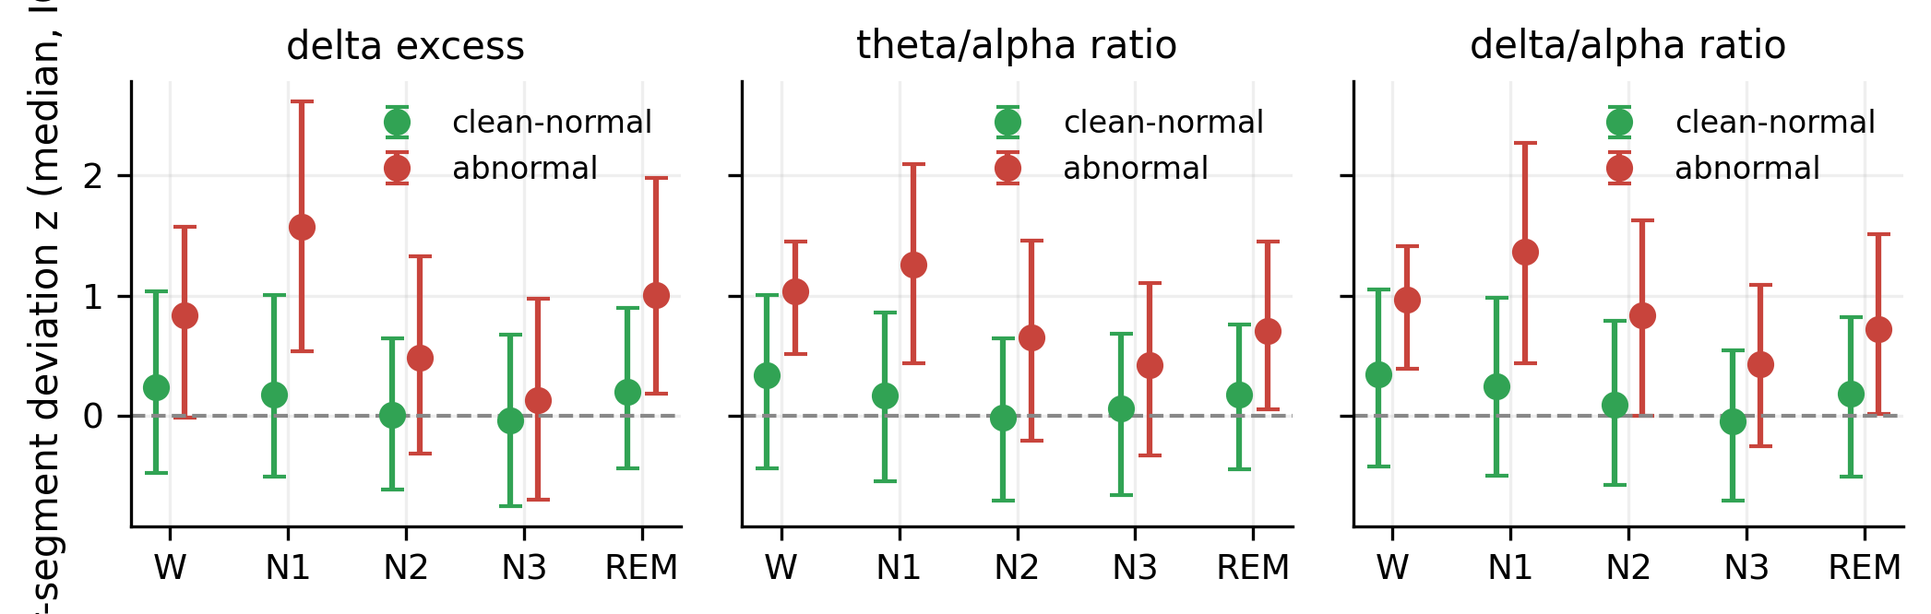
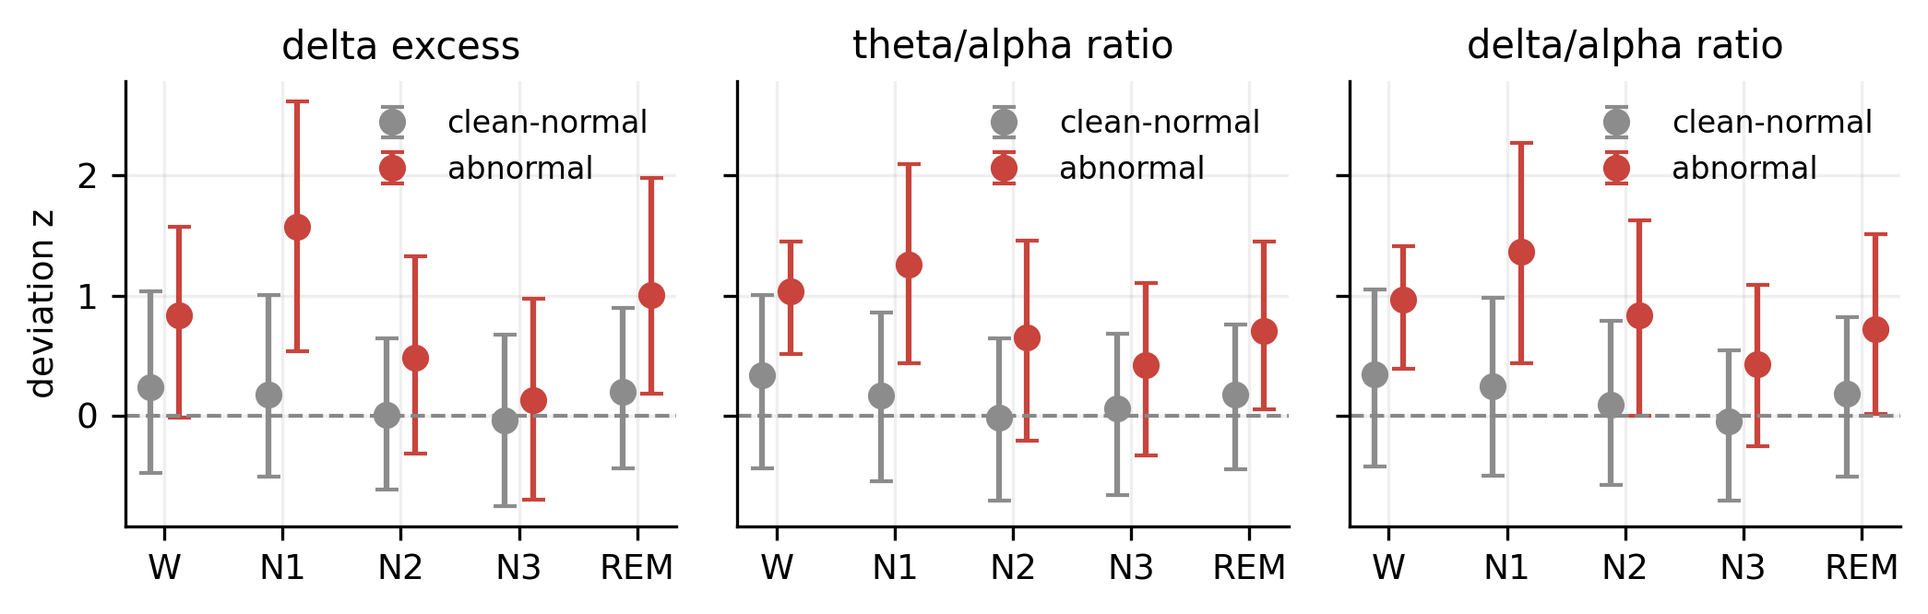
Third figure pass: rebuild the architecture schematic, define every statistic
Round 3 of the figure checker confirmed the nine round-2 blockers closed and found a
finer layer. Fixed the ones that affect whether a reader can read the figure:

* **Figure S1 was unusable.** Every box's label overflowed and overprinted its
  neighbours; five strings were illegible. Cause: the producer centred each label at its
  box midpoint and asked matplotlib to `wrap`, but matplotlib wraps to the FIGURE width,
  not the artist's. Rewritten so text is wrapped to the box width here and each box grows
  to fit its own wrapped text -- a label can no longer overflow however it is edited.
  This is the one figure that carries the paper's thesis, and it was the worst in the set.
* **Figure S6's y-axis label was clipped by the canvas**, taking the error-bar definition
  with it. Shortened, and the definition moved into the caption.
* **Figure S6 coloured clean-normal green against a red abnormal** -- the one pair that
  disappears under deuteranopia and in greyscale, and it contradicted the grey used for
  the same group in Figures 6 and S8. Now grey vs the paper's orange accent.
* **Figure 6's "***" markers and error bars had no key anywhere.** One key line now runs
  under the panel, worded identically in the caption.
* **Figure 7 was set 1.5-2x larger than the rest of the set** (11 pt ticks against ~7 pt
  elsewhere) because it was authored at 6.4 in and scaled up. Page-width now, so a
[…]

diff --git a/scripts/architecture_diagram.py b/scripts/architecture_diagram.py
@@ -1,11 +1,18 @@
-"""Supplementary Figure — model / pipeline architecture schematic.
+"""Figure S1 — the pipeline architecture schematic.
 
 One deviation-from-normal field is the shared substrate for BOTH detection (two report-trained heads) and
-description (claims-table-governed read-out). Rendered as a block diagram; self-contained (no data reads).
+description (a claims-table-governed read-off). Self-contained: reads no data.
+
+Layout note. The previous version centred each label at its box's midpoint and asked matplotlib to `wrap`.
+matplotlib wraps to the FIGURE width, not to the artist's width, so every long label ran straight through
+its own box and overprinted its neighbours -- the figure was unreadable in five places. Text is now wrapped
+to the box width here, in this file, and each box GROWS to fit its wrapped text, so a label can never
+overflow again no matter how it is edited.
 
 Run: MPLBACKEND=Agg python3 scripts/architecture_diagram.py  ->  figures/story/architecture.png
 """
 from __future__ import annotations
+import textwrap
 from pathlib import Path
 import matplotlib; matplotlib.use("Agg")
 import matplotlib.pyplot as plt
@@ -13,75 +20,113 @@ from morgoth_slowing.viz import palette  # noqa: F401  (applies shared Tufte pub
 from matplotlib.patches import FancyBboxPatch, FancyArrowPatch
 
 FIG = Path("figures/story")
-C_IN, C_HUB, C_DET, C_DESC, C_VAL = "#dfe7ef", "#f6d9b8", "#d8e8d5", "#e2dcec", "#eeeeee"
-EDGE = "#5a6b7a"
+
+# Fills are pale and carry NO information -- they group rows for the eye only, and every box is also named.
+# That keeps the figure readable in greyscale and under any colour-vision deficiency.
+C_IN, C_HUB, C_DET, C_DESC, C_VAL = "#e8eef4", "#fbe6cd", "#e3efe0", "#e9e4f2", "#f0f0f0"
+EDGE, HUB_EDGE = "#5a6b7a", "#b06a1a"
+
+W_IN, H_IN = 7.1, 6.4                      # canvas inches
+XMAX, YMAX = 12.0, 12.0                    # data units
+X_PER_IN, Y_PER_IN = XMAX / W_IN, YMAX / H_IN
 
 
-def box(ax, x, y, w, h, text, fc, fs=8.5, bold=False, ec=EDGE):
-    ax.add_patch(FancyBboxPatch((x, y), w, h, boxstyle="round,pad=0.010,rounding_size=0.014",
-                                linewidth=1.1, edgecolor=ec, facecolor=fc))
-    ax.text(x + w / 2, y + h / 2, text, ha="center", va="center", fontsize=fs,
-            fontweight="bold" if bold else "normal", wrap=True)
+def _wrap(text, w_units, fs):
+    """Wrap to the box width. Chars-per-unit from the actual canvas scale, not guessed."""
+    chars = max(8, int(w_units / X_PER_IN * 72.0 / (0.55 * fs) * 0.94))
+    out = []
+    for para in text.split("\n"):
+        out += textwrap.wrap(para, chars) or [""]
+    return out
 
 
-def arrow(ax, x0, y0, x1, y1, style="-|>", lw=1.4, color="#333", ls="-"):
-    ax.add_patch(FancyArrowPatch((x0, y0), (x1, y1), arrowstyle=style, mutation_scale=13,
-                                 lw=lw, color=color, linestyle=ls, shrinkA=1, shrinkB=1))
+def box(ax, x, y_top, w, text, fc, fs=8.0, bold=False, ec=EDGE, pad=0.30):
+    """Draw a box whose HEIGHT is derived from the wrapped text. Returns (y_bottom, y_centre)."""
+    lines = _wrap(text, w, fs)
+    lh = fs * 1.32 / 72.0 * Y_PER_IN                       # one line, in data units
+    h = len(lines) * lh + 2 * pad
+    y = y_top - h
+    ax.add_patch(FancyBboxPatch((x, y), w, h, boxstyle="round,pad=0.010,rounding_size=0.012",
+                                linewidth=1.0, edgecolor=ec, facecolor=fc, zorder=2))
+    ax.text(x + w / 2, y + h / 2, "\n".join(lines), ha="center", va="center", fontsize=fs,
+            fontweight="bold" if bold else "normal", linespacing=1.32, zorder=3)
+    return y, y + h / 2
+
+
+def arrow(ax, x0, y0, x1, y1, lw=1.2, color="#444"):
+    ax.add_patch(FancyArrowPatch((x0, y0), (x1, y1), arrowstyle="-|>", mutation_scale=11,
+                                 lw=lw, color=color, shrinkA=2, shrinkB=2, zorder=1))
 
 
 def main():
     FIG.mkdir(parents=True, exist_ok=True)
-    fig, ax = plt.subplots(figsize=(7.1, 5.68)); ax.set_xlim(0, 12); ax.set_ylim(0, 12); ax.axis("off")
+    fig, ax = plt.subplots(figsize=(W_IN, H_IN))
+    ax.set_xlim(0, XMAX); ax.set_ylim(0, YMAX); ax.axis("off")
 
-    # ---- ingest (top) ----
-    box(ax, 0.5, 11.0, 3.3, 0.8, "Clinical EEG (EDF)\n25,536 recordings · 21,757 patients", C_IN, 8)
-    box(ax, 4.3, 11.0, 3.5, 0.8, "Morgoth sleep staging (ss_hm_1)\nW / N1 / N2 / N3 / REM per 15-s segment", C_IN, 8)
-    box(ax, 8.3, 11.0, 3.2, 0.8, "Segment features\nper region × band (δ/θ/α power, DAR, TAR, rel-power)", C_IN, 7.6)
-    arrow(ax, 3.8, 11.4, 4.3, 11.4); arrow(ax, 7.8, 11.4, 8.3, 11.4)
+    # ---- ingest ---------------------------------------------------------------------------------
+    top = 11.30
+    b1, _ = box(ax, 0.20, top, 3.55, "Clinical EEG\n25,536 recordings · 21,757 patients", C_IN, 7.6)
+    b2, _ = box(ax, 4.15, top, 3.70, "Sleep staging (Morgoth)\nW / N1 / N2 / N3 / REM per 15-s segment", C_IN, 7.6)
+    b3, _ = box(ax, 8.25, top, 3.55, "Segment features\nband powers and ratios per region", C_IN, 7.6)
+    ymid = (top + min(b1, b2, b3)) / 2
+    arrow(ax, 3.75, ymid, 4.15, ymid); arrow(ax, 7.85, ymid, 8.25, ymid)
 
-    # ---- normative curves + deviation field (hub) ----
-    box(ax, 1.2, 9.3, 4.6, 1.0, "Lifespan × sleep-stage normative growth curves (GAMLSS)\nμ, σ per (age × stage × region × feature)", C_HUB, 8.5, bold=True)
-    box(ax, 6.4, 9.3, 4.4, 1.0, "DEVIATION-FROM-NORMAL FIELD\nz per 15-s segment × region × feature\n(the shared substrate)", C_HUB, 8.5, bold=True, ec="#b06a1a")
-    arrow(ax, 9.9, 11.0, 8.6, 10.3)                      # features -> curves/field
-    arrow(ax, 5.8, 9.8, 6.4, 9.8)                        # curves -> field
-    ax.text(6.1, 9.95, "score", fontsize=7, color="#666", ha="center")
+    # ---- the hub --------------------------------------------------------------------------------
+    top2 = min(b1, b2, b3) - 0.75
+    c_b, c_c = box(ax, 0.20, top2, 5.30,
+                   "Lifespan × sleep-stage normative curves (GAMLSS)\nmedian and spread per age × stage × region × feature",
+                   C_HUB, 7.8, bold=True)
+    f_b, f_c = box(ax, 6.20, top2, 5.60,
+                   "DEVIATION-FROM-NORMAL FIELD\nz per 15-s segment × region × feature — the shared substrate",
+                   C_HUB, 7.8, bold=True, ec=HUB_EDGE)
+    arrow(ax, 10.0, min(b1, b2, b3), 10.0, top2)
+    arrow(ax, 5.50, c_c, 6.20, f_c)
+    ax.text(5.85, c_c + 0.26, "score", fontsize=6.8, color="#666", ha="center")
 
-    # ---- two branches ----
-    box(ax, 0.5, 7.4, 5.2, 0.55, "DETECTION  —  two heads, trained ONLY on report labels", C_DET, 9, bold=True)
-    box(ax, 6.6, 7.4, 5.0, 0.55, "DESCRIPTION  —  read-off, governed by the claims table", C_DESC, 9, bold=True)
-    arrow(ax, 7.6, 9.3, 3.1, 8.0)                        # field -> detection
-    arrow(ax, 9.4, 9.3, 9.1, 8.0)                        # field -> description
+    # ---- two consumers --------------------------------------------------------------------------
+    top3 = min(c_b, f_b) - 0.75
+    d_b, _ = box(ax, 0.20, top3, 5.30, "DETECTION — two heads, trained only on report labels", C_DET, 8.0, bold=True)
+    s_b, _ = box(ax, 6.20, top3, 5.60, "DESCRIPTION — read off the field, governed by the claims table",
+                 C_DESC, 8.0, bold=True)
+    arrow(ax, 7.20, f_b, 2.85, top3)
+    arrow(ax, 9.00, f_b, 9.00, top3)
 
-    # detection heads
-    box(ax, 0.5, 6.1, 2.5, 1.1, "Generalized head\ntop-5 pooled whole-head\namount z (diffuse)", C_DET, 7.8)
-    box(ax, 3.2, 6.1, 2.5, 1.1, "Focal head\nrecording-level: peak-region z,\nfocality, L–R asymmetry,\nspatial stability · de-confounded", C_DET, 7.0)
-    arrow(ax, 1.7, 7.4, 1.7, 7.2); arrow(ax, 4.4, 7.4, 4.4, 7.2)
-    box(ax, 1.0, 5.0, 4.2, 0.7, "Recording focal + generalized slowing scores", C_DET, 8.2, bold=True)
-    arrow(ax, 1.7, 6.1, 2.6, 5.7); arrow(ax, 4.4, 6.1, 3.6, 5.7)
+    top4 = min(d_b, s_b) - 0.42
+    g_b, _ = box(ax, 0.20, top4, 2.55, "Generalized head\ntop-k pooled whole-head amount z", C_DET, 7.2)
+    fo_b, _ = box(ax, 2.95, top4, 2.55, "Focal head\npeak-region z, focality, L–R asymmetry, spatial stability",
+                  C_DET, 7.2)
+    de_b, _ = box(ax, 6.20, top4, 5.60,
+                  "Structured descriptors: amount (SD / centile) · side · lobe · electrode · band "
+                  "(low-confidence) · prevalence · persistence · sleep stage, with abstain rules enforced",
+                  C_DESC, 7.2)
+    arrow(ax, 1.47, top4 + 0.42, 1.47, top4); arrow(ax, 4.22, top4 + 0.42, 4.22, top4)
+    arrow(ax, 9.00, top4 + 0.42, 9.00, top4)
 
-    # description read-out
-    box(ax, 6.6, 5.7, 5.0, 1.5,
-        "Structured descriptors →\n• amount (SD / centile)   • side · lobe\n• electrode (L–R asymmetry)   • band (calibrated z_θ−z_δ)\n"
-        "• prevalence · persistence   • sleep stage\n(low-confidence / abstain rules enforced)", C_DESC, 7.4)
-    arrow(ax, 9.1, 7.4, 9.1, 7.2)
-    box(ax, 7.0, 5.0, 4.2, 0.6, "Generated finding line + report paragraph", C_DESC, 8.2, bold=True)
-    arrow(ax, 9.1, 5.7, 9.1, 5.6)
+    top5 = min(g_b, fo_b, de_b) - 0.42
+    r_b, _ = box(ax, 0.20, top5, 5.30, "Recording focal + generalized slowing scores", C_DET, 7.8, bold=True)
+    p_b, _ = box(ax, 6.20, top5, 5.60, "Generated finding line + report paragraph", C_DESC, 7.8, bold=True)
+    arrow(ax, 1.47, top5 + 0.42, 2.30, top5); arrow(ax, 4.22, top5 + 0.42, 3.40, top5)
+    arrow(ax, 9.00, top5 + 0.42, 9.00, top5)
 
-    # ---- validation (bottom) ----
-    box(ax, 0.6, 3.0, 5.1, 1.4,
-        "VALIDATION (held out)\n• 18-expert ON-100 panel — % experts under ROC\n• Morgoth foundation-model gate\n"
-        "• previously published qEEG slowing indices\n• external SAI-100 (second site, SCORE-AI)", C_VAL, 7.6, bold=False)
-    box(ax, 6.6, 3.0, 5.0, 1.4,
-        "VALIDATION (vs clinical reports)\n• dose-response contrasts (D1–D5)\n• component concordance (side, region, band)\n"
-        "• band at expert-vs-expert floor (κ≈0.09)\n• sleep-slowing under-reporting (spindle-verified)", C_VAL, 7.6)
-    arrow(ax, 3.1, 5.0, 3.1, 4.4); arrow(ax, 9.1, 5.0, 9.1, 4.4)
+    # ---- validation -----------------------------------------------------------------------------
+    top6 = min(r_b, p_b) - 0.75
+    v1_b, _ = box(ax, 0.20, top6,
+                  5.30, "VALIDATION, held out\n• ON-100: 18 experts\n• the foundation-model gate\n"
+                        "• the published qEEG indices\n• SAI-100: second site, SCORE-AI", C_VAL, 7.2)
+    v2_b, _ = box(ax, 6.20, top6,
+                  5.60, "VALIDATION, against clinical reports\n• dose-response contrasts\n"
+                        "• component concordance (side, region, band)\n• sleep under-reporting, spindle-verified",
+                  C_VAL, 7.2)
+    arrow(ax, 2.85, top6 + 0.75, 2.85, top6); arrow(ax, 9.00, top6 + 0.75, 9.00, top6)
 
-    ax.text(6, 1.9, "One interpretable normative field → detection (report-trained, expert-validated) + "
-                    "structured, claims-governed description.", ha="center", fontsize=8.5, style="italic", color="#333")
-    ax.text(6, 11.9, "Pipeline architecture — lifespan/sleep-stage deviation-from-normal EEG slowing",
-            ha="center", fontsize=11.5, fontweight="bold")
+    ax.text(6, min(v1_b, v2_b) - 0.55,
+            "One interpretable normative field → detection (report-trained, expert-validated)\n"
+            "+ structured, claims-governed description.",
+            ha="center", va="top", fontsize=8.0, style="italic", color="#333")
 
-    fig.tight_layout(); fig.savefig(FIG / "architecture.png", dpi=300, bbox_inches="tight"); plt.close(fig)
+    fig.subplots_adjust(left=0.005, right=0.995, top=0.995, bottom=0.005)
+    fig.savefig(FIG / "architecture.png", dpi=300, bbox_inches="tight", facecolor="white")
+    plt.close(fig)
     print("wrote figures/story/architecture.png")
 
 

diff --git a/scripts/fig6_sleep_naming.py b/scripts/fig6_sleep_naming.py
@@ -40,20 +40,36 @@ def main():
         + f"| **classified total** | **{sum(ns):,}** | |\n")
     colors = ["#2c7fb8", ABNORMAL, EXPERTS]                    # wake (blue) / sleep-only (red) / base (grey)
 
-    fig, ax = plt.subplots(figsize=(6.4, 4.6))
-    bars = ax.bar(labels, rates, color=colors, width=0.62)
-    for b, r, n in zip(bars, rates, ns):
-        ax.text(b.get_x() + b.get_width() / 2, r + 1.2, f"{r:.0f}%\n(n={n:,})",
-                ha="center", va="bottom", fontsize=9.5, fontweight="bold")
+    # 6.4 in wide made this the largest type in the set (ticks ~11 pt against ~7 pt elsewhere) once the
+    # journal scaled it to column width. Page-width canvas, so a specified point size IS the printed size.
+    fig, ax = plt.subplots(figsize=(7.1, 3.6))
+    # Three proportions with n in the thousands and no uncertainty shown at all was the one place in the
+    # figure set where a point estimate carried no interval. Wilson score 95% CI -- exact for a proportion,
+    # and it does not run off the axis near 0 or 100% the way a normal-approximation interval does.
+    def wilson(k, n, z=1.959963985):
+        ph = k / n; d = 1 + z * z / n
+        c = (ph + z * z / (2 * n)) / d
+        h = z * ((ph * (1 - ph) / n + z * z / (4 * n * n)) ** 0.5) / d
+        return 100 * (c - h), 100 * (c + h)
+
+    cis = [wilson(round(r / 100 * n), n) for r, n in zip(rates, ns)]
+    bars = ax.bar(labels, rates, color=colors, width=0.62, zorder=2)
+    ax.errorbar(range(len(rates)), rates,
+                yerr=[[r - lo for r, (lo, _) in zip(rates, cis)],
+                      [hi - r for r, (_, hi) in zip(rates, cis)]],
+                fmt="none", ecolor="#333", elinewidth=1.2, capsize=4, zorder=3)
+    for b, r, n, (lo, hi) in zip(bars, rates, ns, cis):
+        ax.text(b.get_x() + b.get_width() / 2, hi + 1.4, f"{r:.1f}% [{lo:.0f}\u2013{hi:.0f}]\n(n={n:,})",
+                ha="center", va="bottom", fontsize=8, fontweight="bold")
     ax.axhline(rates[2], ls="--", lw=1, color="#bbb")          # base-rate reference
-    ax.set_ylabel("reports that name slowing (%)")
-    ax.set_ylim(0, max(rates) + 14)
+    ax.set_ylabel("reports that name slowing (%)", fontsize=9)
+    ax.set_ylim(0, max(rates) + 20)
     ax.set_yticks(range(0, 81, 20))
     ax.tick_params(axis="x", length=0)
-    ax.set_title("Slowing is named less often when visible only in sleep", fontsize=12)
+    # Title in the Figure 7 caption (Clinical Neurophysiology).
     fig.tight_layout()
     OUT.parent.mkdir(parents=True, exist_ok=True)
-    fig.savefig(OUT, dpi=300); plt.close(fig)
+    fig.savefig(OUT, dpi=300, bbox_inches="tight"); plt.close(fig)
     print(f"wrote {OUT}  ({rates[0]:.0f}% wake vs {rates[1]:.0f}% sleep-only, base {rates[2]:.0f}%)")
 
 

diff --git a/scripts/57_description_panels.py b/scripts/57_description_panels.py
@@ -115,6 +115,7 @@ def main():
     ll = contrast(ax[0], [(s, foc[foc.focal_side == s].lat_signed) for s in ["left", "bilateral", "right"]],
                   "LENS L-R asymmetry by report side", "signed asymmetry z  (+ = left)", ["#c8443c", "#999", "#2c7fb8"], ylim=(-3, 3))
     ax[0].axhline(0, ls="--", color="#666")
+
     md += ["## D2 — laterality & region", "- laterality: " + "; ".join(ll)]
     # region as DOSE-RESPONSE (not a confusion matrix): a lobe's relative prominence (focality = that lobe's
     # magnitude minus the mean of the other two) is higher when the report names that lobe. Absolute temporal
@@ -155,7 +156,13 @@ def main():
     ax[1].set_ylabel("focality: named \u2212 unnamed", fontsize=8.5)
     ax[1].set_title("Lobe focality rises when the report names that lobe", fontsize=9)
     ax[1].grid(alpha=.2, axis="y")
-    fig.tight_layout(w_pad=2.2)
+
+    # ONE key for the whole panel. Two per-axes keys collided in the middle of the figure.
+    fig.tight_layout(w_pad=2.2, rect=[0, 0.075, 1, 1])
+    fig.text(0.5, 0.012,
+             "left \u2014 violin: distribution (KDE, 1\u201399th percentile); point and bar: mean with bootstrap "
+             "95% CI.    right \u2014 bar: mean difference; error bar: bootstrap 95% CI; *** p < 10\u207b\u00b3 "
+             "(Mann\u2013Whitney).", ha="center", va="bottom", fontsize=6.4, color="#555")
     fig.savefig(FIG / "s4_d2.png", dpi=300, bbox_inches="tight"); plt.close(fig)
     md.append("- region (focality dose-response): " + "; ".join(rl) + "\n")
 
@@ -201,7 +208,7 @@ def main():
     ax[0].set_xticks(list(xs)); ax[0].set_xticklabels(STAGES)
     ax[0].set_ylabel("prevalence (mean)", fontsize=8.5)
     ax[0].set_title("Slowing prevalence by stage", fontsize=9)
-    ax[0].legend(frameon=False, fontsize=8, loc="upper right"); ax[0].grid(alpha=.2)
+    ax[0].legend(frameon=False, fontsize=8, loc="center left"); ax[0].grid(alpha=.2)
     for band, col in [("delta_p90", "#c8443c"), ("theta_p90", "#2c7fb8")]:
         m = [Sm[Sm.slowing][Sm[Sm.slowing].stage == st][band].median() for st in STAGES]
         ax[1].plot(xs, m, "o-", color=col, label=band.replace("_p90", "-excess z"))

diff --git a/scripts/44_segment_deviation_summary.py b/scripts/44_segment_deviation_summary.py
@@ -17,7 +17,7 @@ from pathlib import Path
 import numpy as np, pandas as pd
 import matplotlib; matplotlib.use("Agg")
 import matplotlib.pyplot as plt
-from morgoth_slowing.viz.palette import NORMAL, ABNORMAL
+from morgoth_slowing.viz.palette import EXPERTS as NEUTRAL, ABNORMAL
 
 DEV = "data/derived/segment_deviation"
 STAGES = ["W", "N1", "N2", "N3", "REM"]
@@ -88,7 +88,10 @@ def main():
     fig, axes = plt.subplots(1, 3, figsize=(7.1, 2.33), sharey=True)
     for j, (col, label) in enumerate(FEATS):
         ax = axes[j]
-        for grp, D, color in [("clean-normal", cn_d, NORMAL), ("abnormal", ab_d, ABNORMAL)]:
+        # clean-normal is NEUTRAL GREY here, matching Figures 6B and S8. It used to be green against a red
+        # "abnormal", which (a) contradicted the grey used for the same group elsewhere and (b) is the one
+        # colour pair that vanishes under deuteranopia and in greyscale.
+        for grp, D, color in [("clean-normal", cn_d, NEUTRAL), ("abnormal", ab_d, ABNORMAL)]:
             meds, q1s, q3s = [], [], []
             for st in STAGES:
                 v = D[D.stage == st][col].replace([np.inf, -np.inf], np.nan).dropna()
@@ -103,7 +106,8 @@ def main():
         ax.set_xticks(range(len(STAGES))); ax.set_xticklabels(STAGES)
         ax.set_title(label, fontsize=10); ax.grid(alpha=.2)
         if j == 0:
-            ax.set_ylabel("per-segment deviation z (median, IQR)")
+            # The full label was clipped by the canvas edge, taking the error-bar definition with it.
+            ax.set_ylabel("deviation z", fontsize=9)
         ax.legend(frameon=False, fontsize=8)
     # Title in the Figure S6 caption, not in the image (Clinical Neurophysiology).
     fig.tight_layout()

diff --git a/scripts/assemble_manuscript_figures.py b/scripts/assemble_manuscript_figures.py
@@ -131,7 +131,7 @@ def compose(out_path: Path, panels: list[str], ncols: int) -> bool:
     fig = plt.figure(figsize=(COLW * ncols, sum(row_h)))
     # hspace was 0.03, which put each panel letter on top of the previous panel's x-axis labels (the "B"
     # of Figure 2 and Figure 6 sat in among the tick labels of panel A). The letter needs a line of its own.
-    gs = fig.add_gridspec(nrows, ncols, height_ratios=row_h, hspace=0.075, wspace=0.03)
+    gs = fig.add_gridspec(nrows, ncols, height_ratios=row_h, hspace=0.115, wspace=0.03)
     for i, im in enumerate(imgs):
         r, c = divmod(i, ncols)
         ax = fig.add_subplot(gs[r, c]); ax.imshow(im); ax.axis("off")

diff --git a/docs/manuscript_draft.md b/docs/manuscript_draft.md
@@ -320,13 +320,13 @@ item are listed once, in the provenance table at the end of this section, rather
 
 - **Figure 5 --- Generalized slowing: what LENS says, beside what the EEG shows and what the clinician wrote.** As Figure 4, for three recordings with exclusively generalized slowing (4.0, 2.2 and 1.6 SD); the displayed window is the segment of highest whole-head deviation, and no derivations are tinted because a diffuse finding has no single site to point at. Splitting the six examples across two page-width figures is what keeps the traces and the report text legible in print; a combined 3 × 2 grid did not.
 
-- **Figure 6 --- The description tracks the report, by contrast rather than by classification.** **(A)** Laterality and region. Left: the signed left-minus-right asymmetry z of the deviation field, split by the side the report names (+ = left). Violins are the distribution (kernel density on the central 1--99th percentile); the point and bar are the mean with a bootstrap 95% CI --- the estimate the contrast is about, shown because a violin alone understates a shift in location. Right: lobe focality (a lobe's prominence above the mean of the other two) as the difference between recordings whose report names that lobe and recordings whose report names a different one, with a bootstrap 95% CI; \*\*\* is p < 10⁻³ (Mann--Whitney). n per group is on the axis. **(B)** Sleep stage. Left: mean fraction of segments flagged abnormal per stage, for recordings whose report names slowing versus clean-normals --- the gap holds at every stage, wake and sleep. Right: median delta- and theta-excess deviation z per stage among report-slowing recordings.
+- **Figure 6 --- The description tracks the report, by contrast rather than by classification.** **(A)** Laterality and region. Left: the signed left-minus-right asymmetry z of the deviation field, split by the side the report names (+ = left). Violins are the distribution (kernel density on the central 1--99th percentile); the point and bar are the mean with a bootstrap 95% CI --- the estimate the contrast is about, shown because a violin alone understates a shift in location. Right: lobe focality (a lobe's prominence above the mean of the other two) as the difference between recordings whose report names that lobe and recordings whose report names a different one; the bar is the mean difference and the error bar its bootstrap 95% CI; \*\*\* is p < 10⁻³ (Mann--Whitney). n per group is on the axis, and the same key is printed in the figure. **(B)** Sleep stage. Left: mean fraction of segments flagged abnormal per stage, for recordings whose report names slowing versus clean-normals --- the gap holds at every stage, wake and sleep. Right: median delta- and theta-excess deviation z per stage among report-slowing recordings.
 
-- **Figure 7 --- Clinicians name slowing far less often when it is visible only in sleep.** Percentage of reports that name slowing, split by where LENS finds the slowing visible: awake (74.8%, n = 4,282), only in sleep (53.6%, n = 709), and neither, which is the base rate (40.0%, n = 14,400). The within-subject deviation analysis behind this --- cases deviating above stage-matched normals in N2 and N3, undiminished on spindle-verified N2 --- is §3.8.
+- **Figure 7 --- Clinicians name slowing far less often when it is visible only in sleep.** Percentage of reports that name slowing, split by where LENS finds the slowing visible: awake (74.8%, n = 4,282), only in sleep (53.6%, n = 709), and neither, which is the base rate (40.0%, n = 14,400). One cleanly paired recording per patient; error bars are Wilson score 95% CIs and the dashed line is the base rate. The three groups are exclusive and exhaust the 19,391 patients that can be classified. The within-subject deviation analysis behind this --- cases deviating above stage-matched normals in N2 and N3, undiminished on spindle-verified N2 --- is §3.8.
 
 ### Supplementary
 
-- **Figure S1 --- The architecture: one deviation field, two consumers.** Feature extraction and Morgoth sleep staging feed a single age- and sleep-stage-matched deviation-from-normal field, which serves both the two report-trained detector heads and the claims-governed description layer, with the held-out validation used for each shown beneath it.
+- **Figure S1 --- The architecture: one deviation field, two consumers.** Feature extraction and sleep staging feed a single age- and sleep-stage-matched deviation-from-normal field (orange). That one field is the shared substrate for both branches: on the left, two report-trained detector heads --- a generalized head pooling whole-head amount and a focal head reading localization --- and on the right, the claims-governed description layer, which reads the field directly and is never fitted to a label. Beneath each branch is the validation it is held to. Box fills group the rows for the eye and carry no information of their own.
 
 - **Figure S2 --- The normative curves are calibrated on data never used to fit them.** Observed versus nominal centile, by sleep stage (rows) and feature (columns). The dashed diagonal is perfect calibration; bands are patient-clustered bootstrap 95% CIs. Blue: 7,216 held-out clean-normal recordings from 6,779 patients --- the complement of the seeded 3,000-recording sample the norms are fitted on. Orange: the 71 ON-100 recordings with no expert-majority slowing, an institutionally external reference.
 
@@ -336,7 +336,7 @@ item are listed once, in the provenance table at the end of this section, rather
 
 - **Figure S5 --- The stage-resolved curve bank, whole head.** Median lifespan curves per sleep stage for relative delta **(A)**, TAR **(B)** and DAR **(C)** in clean-normal recordings, with n per stage in the legend. Stage colours are the same throughout the paper (W gold, N1 light blue, N2 blue, N3 navy, REM purple; Figure 1A uses the identical mapping). This is the whole-head view of what Figure 1A shows per occipital derivation, and it is where the W ≈ N1 < N2 < N3 ordering of physiological slowing is read off.
 
-- **Figure S6 --- The per-segment deviation field is both calibrated and discriminative.** Distribution of whole-head deviation z by sleep stage: clean-normal recordings sit near zero in every stage, while recordings the report calls abnormal are shifted upward in every stage, most in wake and N1.
+- **Figure S6 --- The per-segment deviation field is both calibrated and discriminative.** Per-segment whole-head deviation z by sleep stage, one panel per feature: the marker is the median and the bar the interquartile range. Clean-normal recordings (grey, the same grey used for that group in Figures 6 and S8) sit near zero in every stage --- which is what "calibrated" means here, since each segment is scored against its own stage's norm --- while recordings the report calls abnormal (orange) are shifted upward in every stage, most in wake and N1.
 
 - **Figure S7 --- Why the two detection axes need different read-outs.** The localized focal detector on the ON-100 panel --- **(A)** ROC, **(B)** precision--recall --- showing that a detector built on regional localization rather than on overall amount is what the focal axis requires; the generalized axis pools a diffuse whole-head amount instead (§3.4a). This is the same LENS pipeline as Figure 2, restricted to wake and N1 and cross-validated within the panel, so its numbers are not comparable with Figure 2's report-trained ones. Grey points are experts below the curve, red above.
 

diff --git a/figures/manuscript/MANIFEST.md b/figures/manuscript/MANIFEST.md
@@ -6,17 +6,17 @@ Printed size is what the figure measures once it is scaled to fit Clinical Neuro
 
 | submission figure | panels | producing script(s) | printed mm | type scale |
 |---|---|---|---|---|
-| `Figure1_normative_model.png` | 2 (keystone_growth_grid.png, topo_rel_delta_by_age_stage.png) | `scripts/76, 77` | 155 x 240 | 1.13 |
-| `Figure2_detection.png` | 2 (s0d_single_occasion_generalized.png, s0e_occasion_focal.png) | `scripts/54, 55, 66` | 190 x 188 | 1.39 |
+| `Figure1_normative_model.png` | 2 (keystone_growth_grid.png, topo_rel_delta_by_age_stage.png) | `scripts/76, 77` | 152 x 240 | 1.13 |
+| `Figure2_detection.png` | 2 (s0d_single_occasion_generalized.png, s0e_occasion_focal.png) | `scripts/54, 55, 66` | 190 x 192 | 1.41 |
 | `Figure3_sandor_external.png` | 1 (sandor100_slowing.png) | `scripts/sandor100_external_validation` | 190 x 88 | 1.34 |
 | `Figure4_example_focal.png` | 1 (s4_examples_eeg_focal.png) | `scripts/62, 63` | 171 x 240 | 1.21 |
 | `Figure5_example_generalized.png` | 1 (s4_examples_eeg_generalized.png) | `scripts/62, 63` | 171 x 240 | 1.21 |
-| `Figure6_description_contrast.png` | 2 (s4_d2.png, s4_d5.png) | `scripts/57` | 190 x 161 | 1.39 |
-| `Figure7_sleep_underreporting.png` | 1 (v4a_wake_sleep.png) | `scripts/fig6_sleep_naming (95b stat)` | 190 x 138 | 1.34 |
-| `FigureS1_architecture.png` | 1 (architecture.png) | `scripts/architecture_diagram` | 190 x 143 | 1.34 |
+| `Figure6_description_contrast.png` | 2 (s4_d2.png, s4_d5.png) | `scripts/57` | 190 x 157 | 1.41 |
+| `Figure7_sleep_underreporting.png` | 1 (v4a_wake_sleep.png) | `scripts/fig6_sleep_naming (95b stat)` | 190 x 98 | 1.34 |
+| `FigureS1_architecture.png` | 1 (architecture.png) | `scripts/architecture_diagram` | 190 x 186 | 1.34 |
 | `FigureS6_deviation_field.png` | 1 (s2_segment_deviation.png) | `scripts/44` | 190 x 65 | 1.34 |
-| `FigureS5_curvebank.png` | 3 (rel_delta__whole_head.png, TAR__whole_head.png, DAR__whole_head.png) | `scripts/111` | 190 x 226 | 1.40 |
-| `FigureS8_description_panels.png` | 4 (s4_d1.png, s4_d3.png, s4_d4.png, s4_d6.png) | `scripts/57, 58` | 163 x 240 | 1.21 |
+| `FigureS5_curvebank.png` | 3 (rel_delta__whole_head.png, TAR__whole_head.png, DAR__whole_head.png) | `scripts/111` | 190 x 232 | 1.44 |
+| `FigureS8_description_panels.png` | 4 (s4_d1.png, s4_d3.png, s4_d4.png, s4_d6.png) | `scripts/57, 58` | 159 x 240 | 1.21 |
 | `FigureS7_localized_focal.png` | 1 (s0_occasion_ours_v4_focal.png) | `scripts/49` | 190 x 92 | 1.34 |
 | `FigureS9_severity_null.png` | 1 (severity_recalibrated.png) | `scripts/109` | 190 x 91 | 1.34 |
 | `FigureS3_vanputten.png` | 1 (vanputten_panel_s7.png) | `scripts/vanputten_panel_s7` | 190 x 102 | 1.34 |
